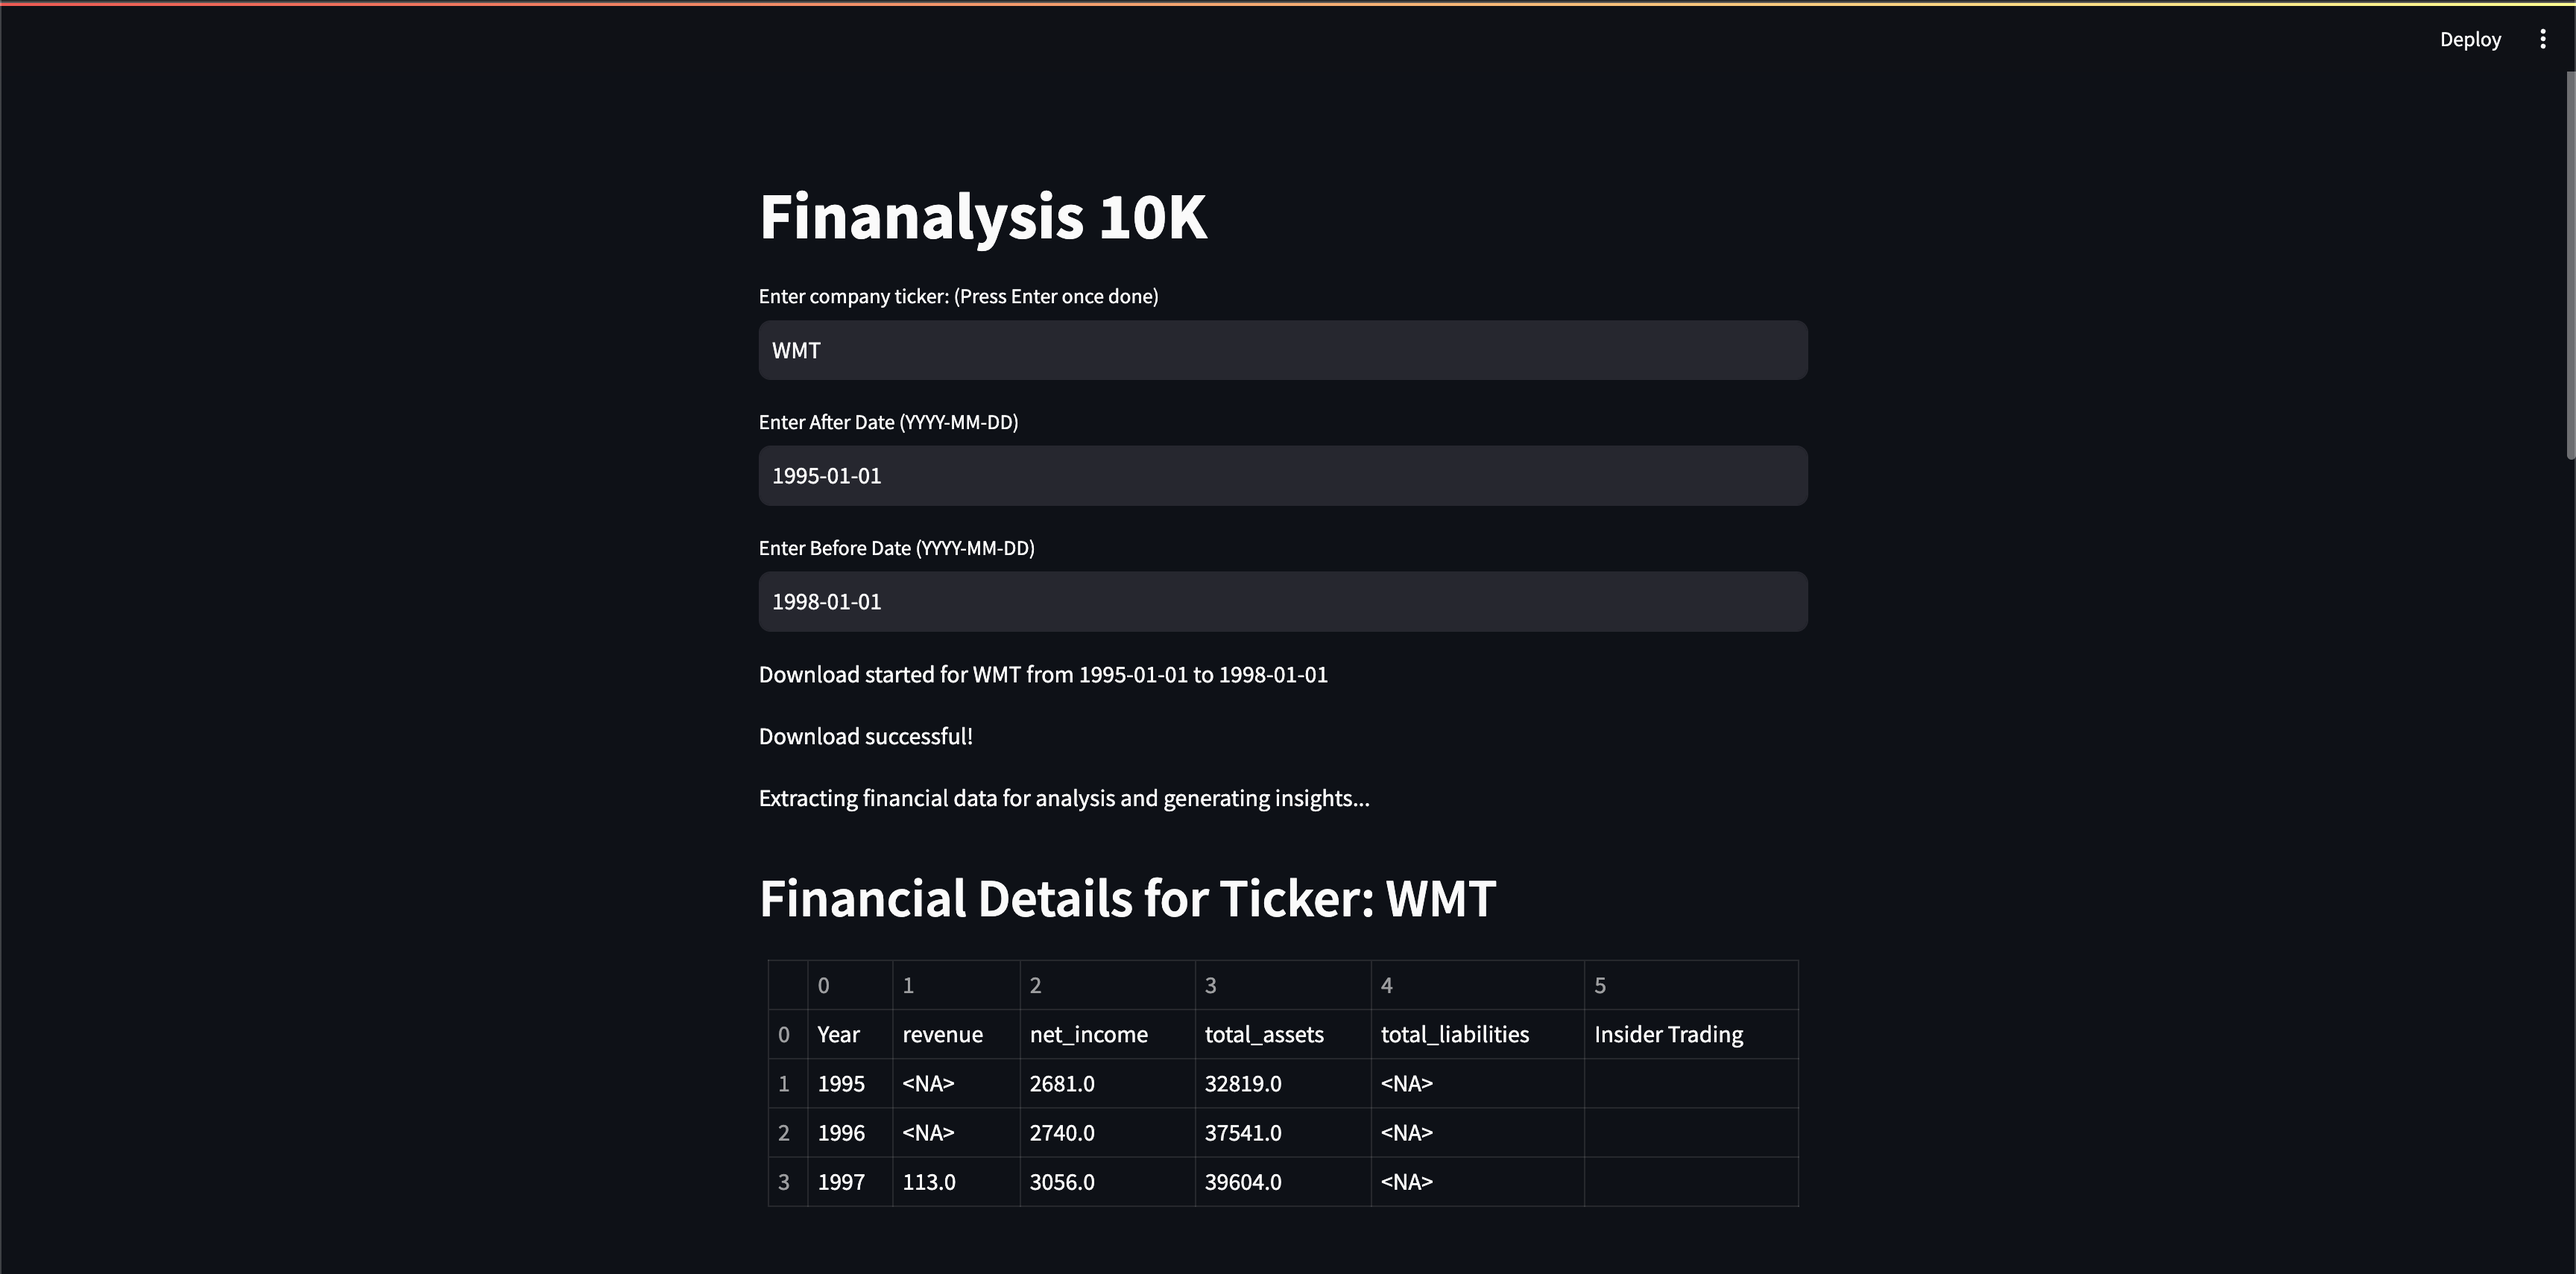
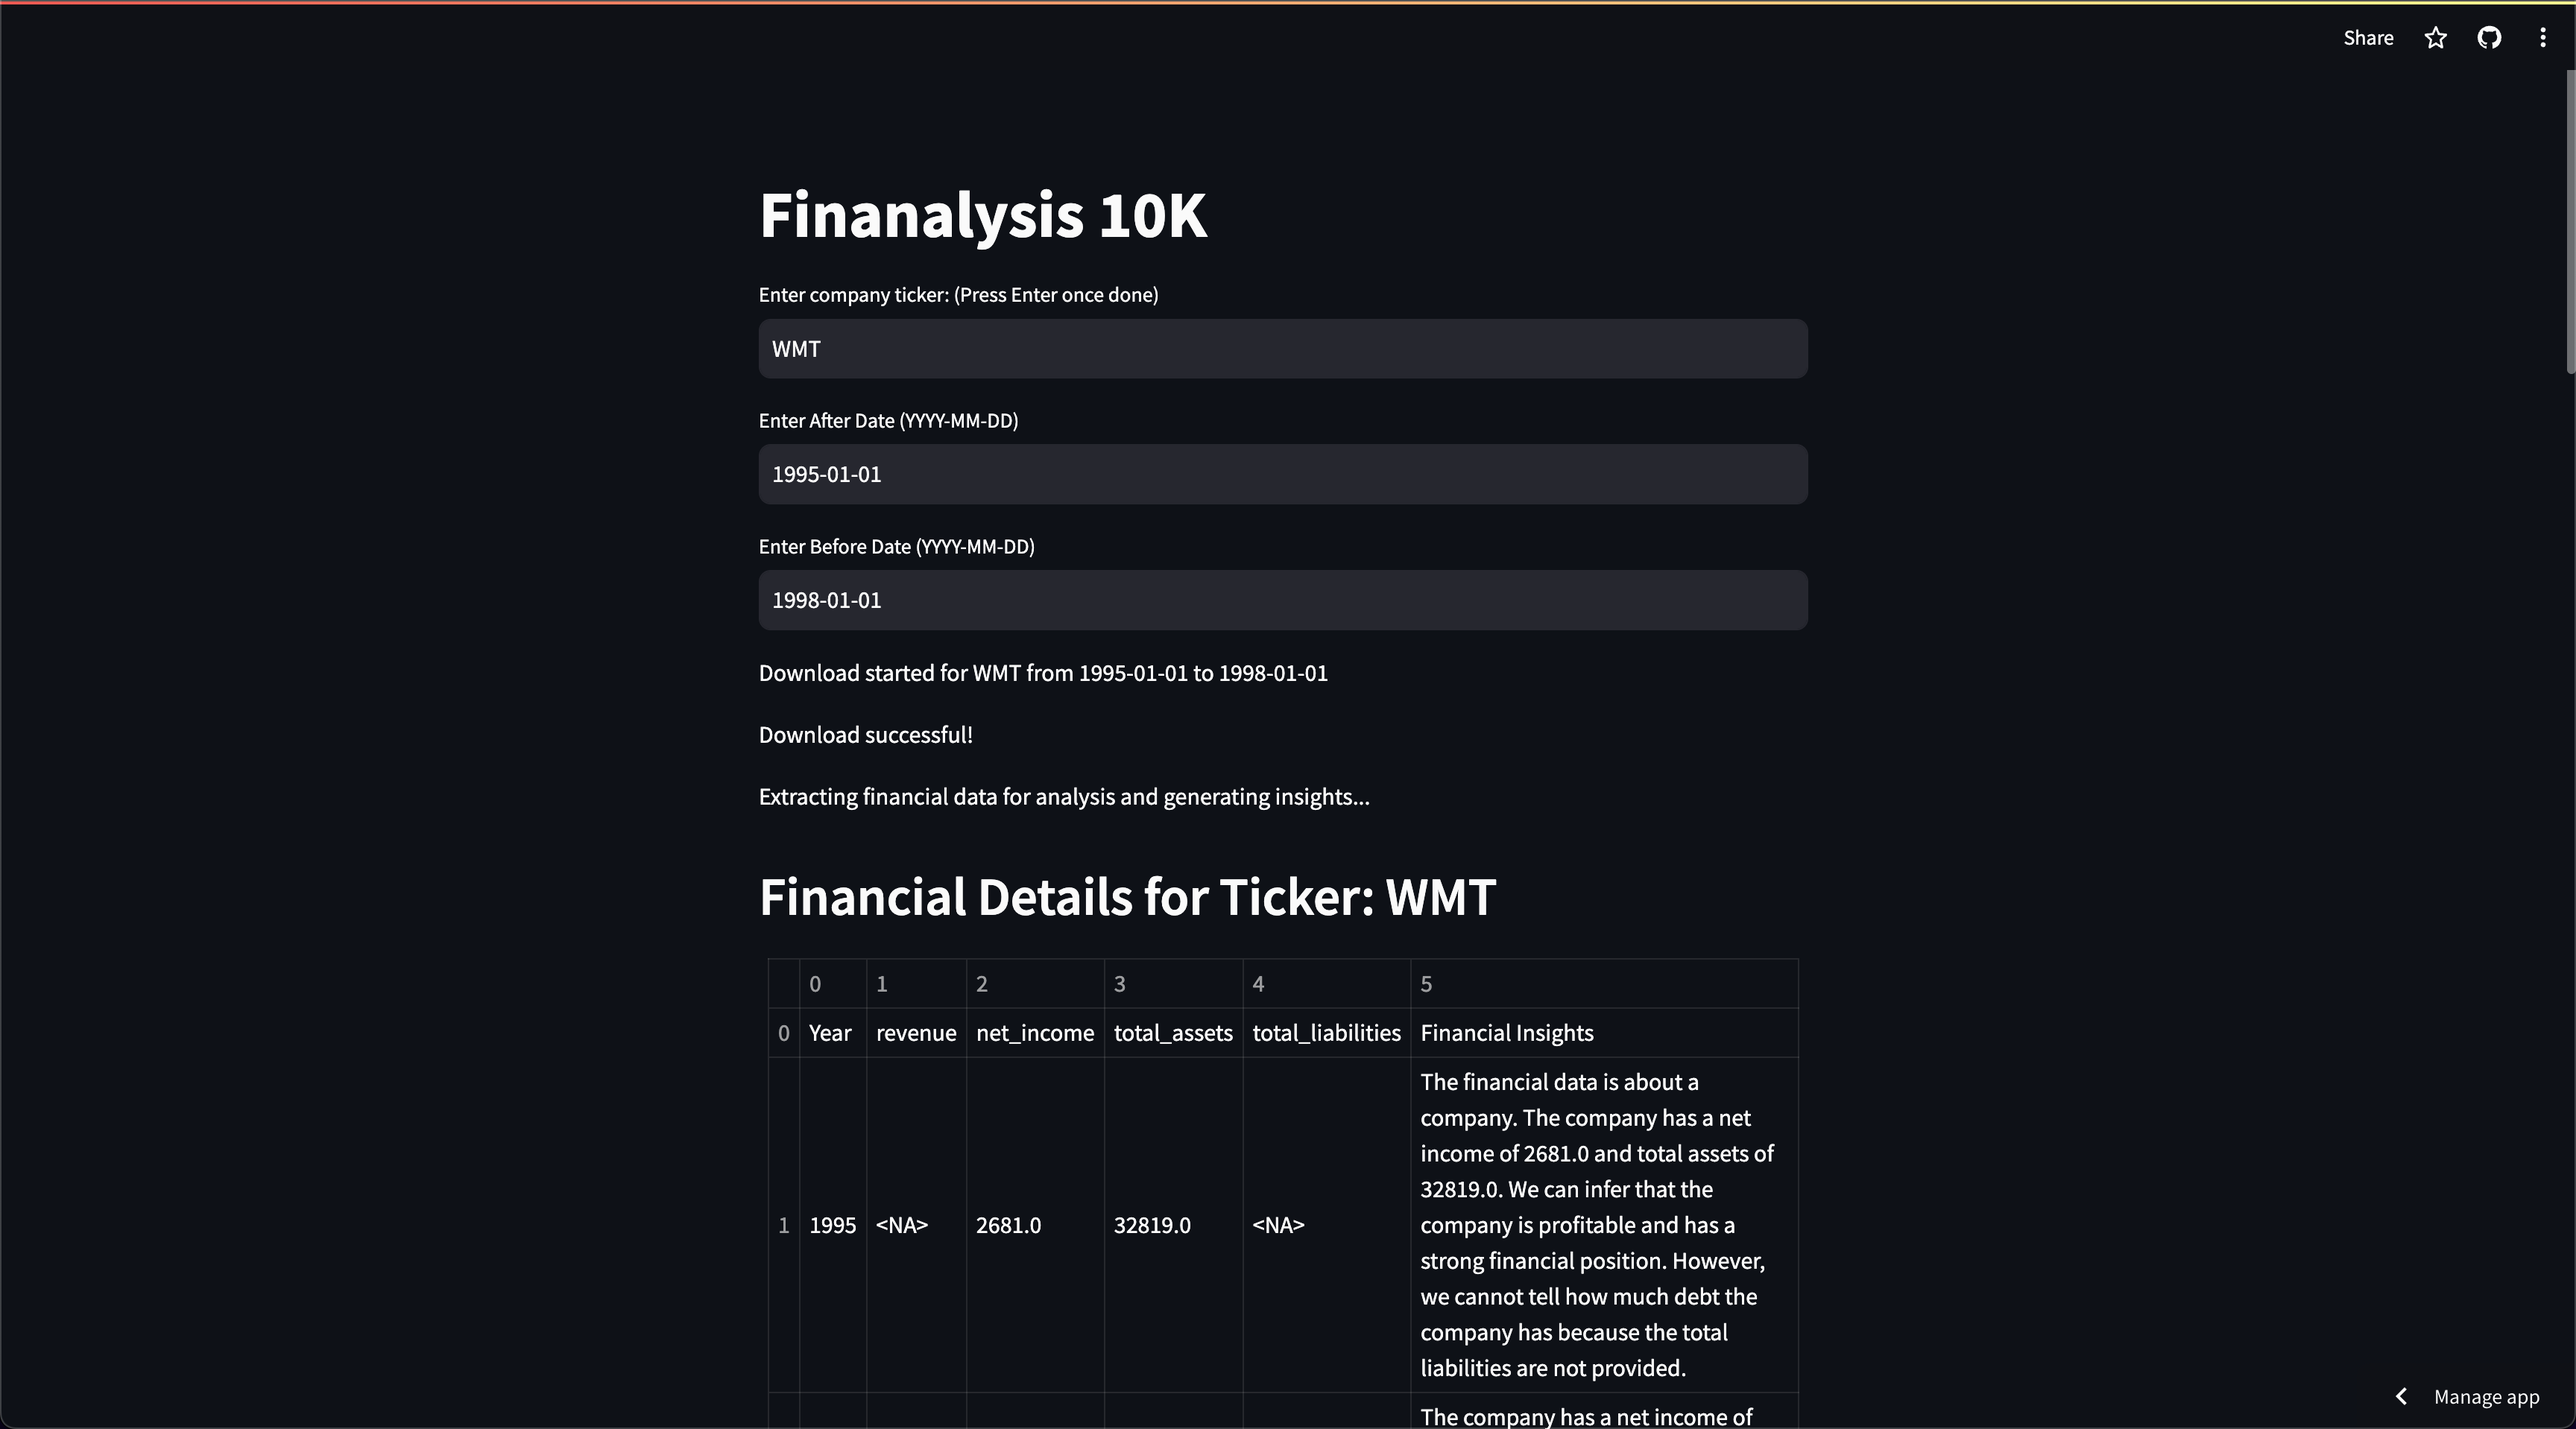
final

diff --git a/README.md b/README.md
@@ -39,13 +39,13 @@ Marvel at the technologies powering our platform:
 Explore the live demo of the app [here](https://company-10k-analyzer.streamlit.app/).
 
 ![Financial Table](demo/first.png)
-*Screenshot: Download Successful and Generating Insights for MSFT from 1995 to 2023.*
+*Screenshot: Download Successful and Generating Insights for WMT from 1995 to 1998.*
 
 ![Financial Table](demo/Screenshot%202024-05-10%20at%202.21.34 AM.png)
-*Screenshot: Download Successful and Generating Insights for MSFT from 1995 to 2023.*
+*Screenshot: Intersting Observations*
 
 ![Financial Table](demo/Screenshot%202024-05-10%20at%202.21.50 AM.png)
-*Screenshot: Download Successful and Generating Insights for MSFT from 1995 to 2023.*
+*Screenshot: Overall Insights and Analysis of WMT.*
 
 
 ## Features
